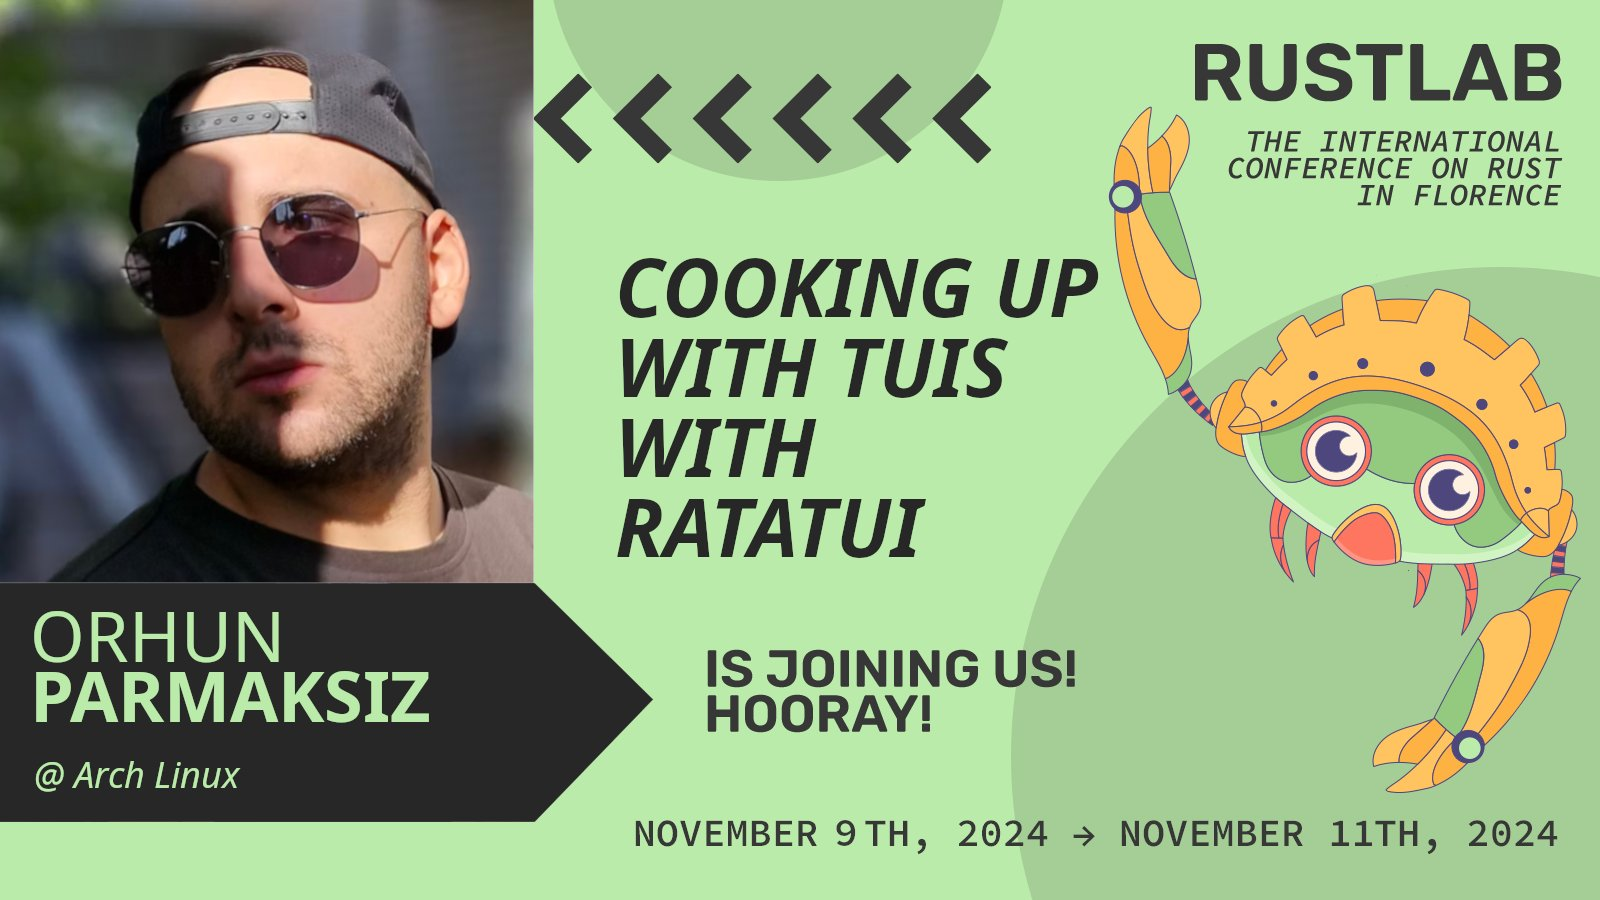
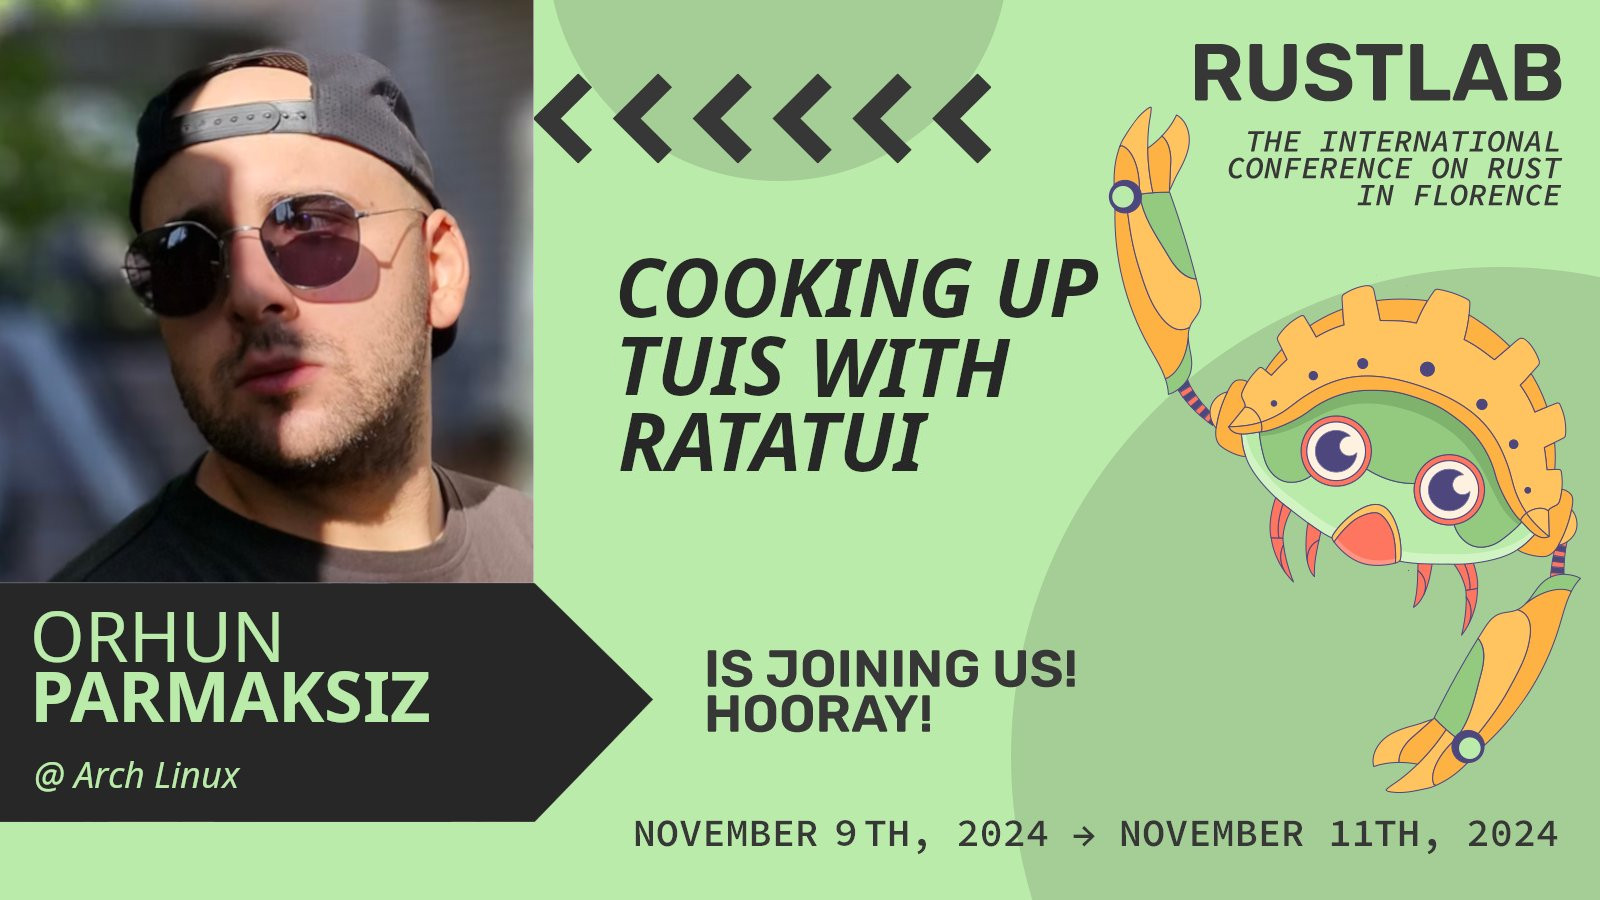
Update the workshop details

Changed region(s): [[0.375, 0.3733, 0.6562, 0.6222]]

diff --git a/README.md b/README.md
@@ -2,7 +2,7 @@
 
 # Ratatui Workshop 👨🍳🐀
 
-This workshop is prepared for ["Cooking up with TUIs with Ratatui"](https://rustlab.it/talks/cooking-up-with-tuis-with-ratatui) session at [RustLab 2024](https://rustlab.it).
+This workshop is prepared for ["Cooking up TUIs with Ratatui"](https://rustlab.it/talks/cooking-up-with-tuis-with-ratatui) session at [RustLab 2024](https://rustlab.it).
 
 You can also follow this guide individually and complete the workshop. See [Getting Started](#getting-started).
 
